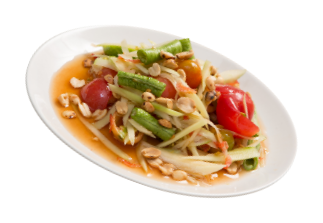
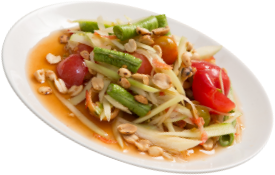
Clean about us image backgrounds

diff --git a/src/components/AboutUsPage.tsx b/src/components/AboutUsPage.tsx
@@ -227,16 +227,14 @@ export function AboutUsPage() {
             </p>
           </div>
 
-          <div className="mt-8 aspect-[2.9/1] min-h-[210px] w-full overflow-hidden rounded-[18px] bg-[linear-gradient(135deg,#f5efe4,#ede8df)] sm:min-h-[280px] lg:mt-9 lg:min-h-[420px]">
-            <img
-              alt="Friends sharing Asian dishes around a table"
-              className="h-full w-full object-cover object-center"
-              decoding="async"
-              draggable={false}
-              fetchPriority="high"
-              src={`${basePath}images/about/about-food-table.png`}
-            />
-          </div>
+          <img
+            alt="Friends sharing Asian dishes around a table"
+            className="mt-8 block w-full rounded-[18px] object-cover object-center lg:mt-9"
+            decoding="async"
+            draggable={false}
+            fetchPriority="high"
+            src={`${basePath}images/about/about-food-table.png`}
+          />
         </div>
       </section>
 
@@ -401,7 +399,7 @@ export function AboutUsPage() {
 
             <img
               alt="FoodOnlines delivery truck"
-              className="absolute bottom-[-112px] left-1/2 z-10 w-[min(96vw,820px)] max-w-full -translate-x-1/2 object-contain drop-shadow-[0_24px_28px_rgba(22,31,20,0.16)] sm:bottom-[-176px] sm:w-[min(96vw,1040px)] lg:bottom-[-230px] lg:w-[1120px]"
+              className="absolute bottom-[16px] left-1/2 z-10 w-[min(96vw,820px)] max-w-full -translate-x-1/2 object-contain drop-shadow-[0_24px_28px_rgba(22,31,20,0.16)] sm:bottom-[-118px] sm:w-[min(96vw,1040px)] lg:bottom-[-230px] lg:w-[1120px]"
               decoding="async"
               draggable={false}
               loading="lazy"
@@ -416,7 +414,7 @@ export function AboutUsPage() {
               >
                 <img
                   alt={dish.imageAlt}
-                  className={`object-contain drop-shadow-[0_14px_22px_rgba(53,31,16,0.15)] ${dish.imageClassName}`}
+                  className={`object-contain ${dish.imageClassName}`}
                   decoding="async"
                   draggable={false}
                   loading="lazy"

diff --git a/design.md b/design.md
@@ -744,7 +744,7 @@
 - Typography is Poppins-first across the About Us page: bold Poppins-style headings, normal Poppins-style paragraph text, readable `clamp()` sizing, and no negative letter spacing.
 - Brand color usage follows FoodOnlines green `#64bd00` and orange `#ff6b1a`, with black body/headline text and mostly white or warm off-white section backgrounds.
 - The visual structure keeps the original story rhythm: large hero text plus rounded image area, centered logo/mission copy, four flavor circles, left mission copy with right decorative shapes, a delivery truck composition, and the original leadership/team card grid with its images.
-- The top hero image box uses the supplied table-sharing food image at `public/images/about/about-food-table.png`, rendered as a rounded full-cover image inside the existing wide hero box.
+- The top hero food image uses the supplied table-sharing image at `public/images/about/about-food-table.png`, rendered as the image itself with rounded corners only. Do not add a wrapper box, background fill, shadow panel, forced min-height, or placeholder surface behind this image.
 - Responsive behavior stacks or reduces decorative compositions across tablet and 430px/390px/360px mobile widths so text remains selectable, readable, and free of horizontal scroll.
 - Mission-section mobile typography uses smaller mobile-only line groups for the green mission headline and orange global-serving statement so iOS, Android, and desktop-mobile browser widths stay readable without clipping; desktop keeps the larger original-style scale.
 - Janet Weiler's leadership portrait uses the exact supplied `.jfif` headshot copied into the public leadership assets and is rendered with contained bottom alignment plus a small CSS scale-down so the original image stays intact while fitting closer to the other leadership cards.
@@ -755,6 +755,7 @@
 - The About Us circle assets live in `public/images/about/circle-assets/` as transparent PNGs. Most food assets are cropped cutouts, but the delivery truck must use the original transparent full file copied directly from `9.Our teams fulfill and deliver more than 100,000 orders every day (1).png` so no part of the vehicle is cut off. Images should stay `object-contain`, lazy-loaded, non-stretching, and sized with responsive Tailwind classes so desktop, Chrome, Safari, Android, iPhone, mobile, and desktop-mobile browser widths keep the cutouts overstepping the circles without creating horizontal page overflow.
 - Authentic-flavor circle sizing should be smaller below desktop: single-column mobile stays around 260px max, desktop-mobile/tablet two-column layouts stay around 220-285px max per circle, and only large desktop grows toward 330px. The images scale with the circle so burger, ice cream, drinks, and chips do not overwhelm the viewport.
 - Mission circle spacing follow-up: keep the grocery cart visually separated from the plate by anchoring it higher and farther right on the peach circle. The spicy rice-cake plate should be larger than the original pass and sit deeper into the large green circle so the green circle feels intentionally filled while still preserving transparent image edges.
+- Delivery composition cleanup: the visible truck should sit inside the green circle on mobile and desktop-mobile widths. The surrounding dish PNGs should be tight transparent cutouts with no background boxes and no CSS drop shadows that create a square panel; only the dish pixels should show over the page/circle.
 
 ### Become Vendor Page Launch (2026-06-04)
 

diff --git a/AGENT.md b/AGENT.md
@@ -1021,6 +1021,7 @@
 - Follow-up mission circle spacing update: the mission shopping-cart cutout is positioned farther up/right from the peach circle while the spicy rice-cake plate is enlarged and shifted down/left so it fills more of the large green circle and creates clearer spacing between the two images on desktop, tablet, and mobile widths.
 - Follow-up hero/table and mobile-circle update: the top hero image box now uses the supplied table-sharing image at `public/images/about/about-food-table.png` with full-cover rounded rendering. The four authentic-flavor circles now use smaller responsive widths below desktop so desktop-mobile/tablet pairs fit cleanly without oversized circle/image overlap.
 - Follow-up truck cutoff fix: `public/images/about/circle-assets/delivery-truck.png` now uses the original transparent full `9.Our teams fulfill and deliver more than 100,000 orders every day (1).png` file directly with no background removal or crop processing. The page CSS caps the full canvas width while using negative bottom offsets to place the visible vehicle without cutting off any part of the truck.
+- Follow-up image-background cleanup: the top table image now renders as the image only, with no wrapper box, background fill, or forced min-height behind it. The delivery dishes were cropped to tight transparent alpha bounds and their CSS drop shadows were removed so no square/white background appears around the dish cutouts. The delivery truck is moved higher on mobile so the visible vehicle sits inside the green circle instead of below it.
 - About Us circle art checks on 2026-06-05: `cmd /c npx tsc --noEmit` and `cmd /c npm run build`.
 
 ## Become Vendor Page Launch (2026-06-04)
